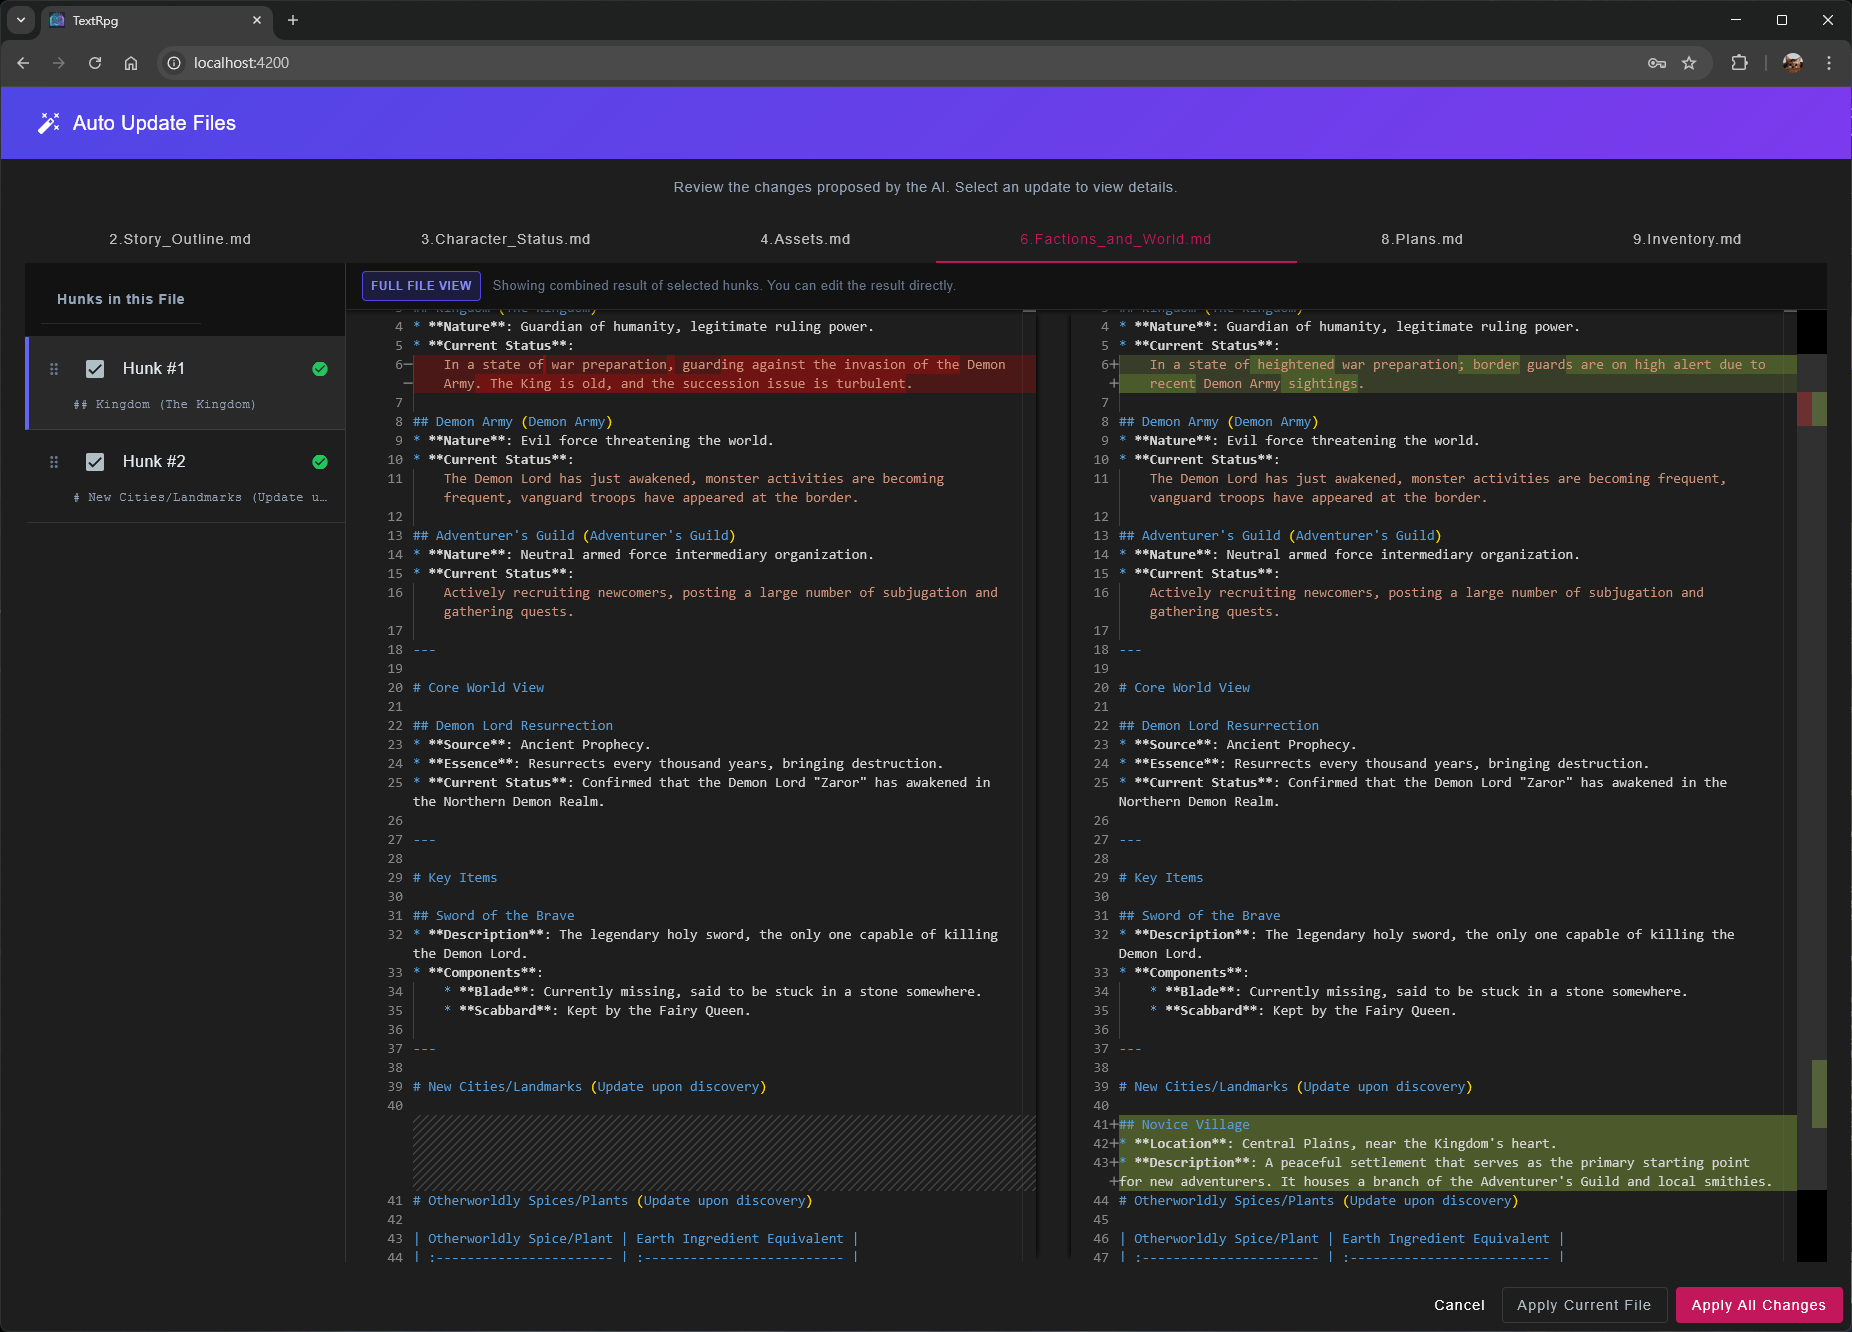
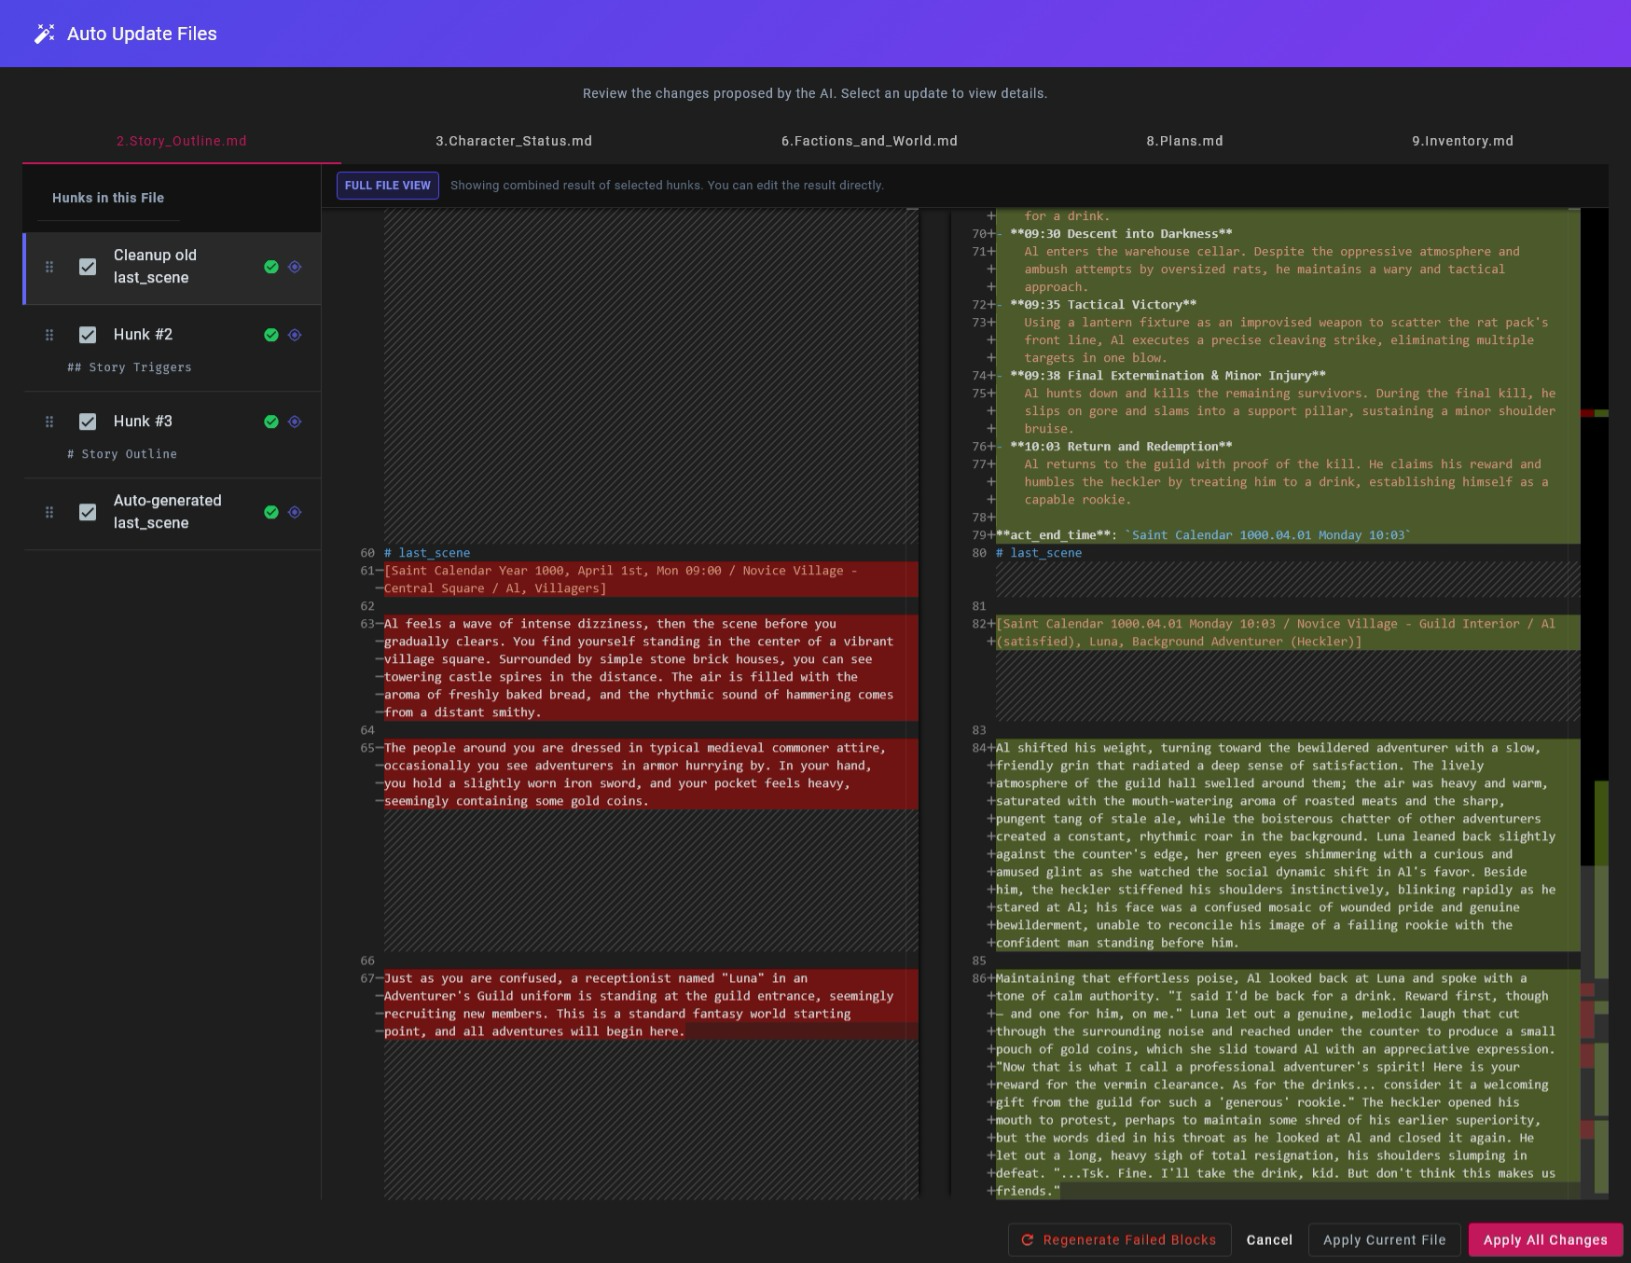
docs(readme): refresh feature demo screenshots (4 shots, accurate alt text)
Replace the 3-image demo block (2/3 sharing a duplicated alt) with 4 shots
covering both playback and Auto World Update flows: turn-with-analysis, quest
completion, hunk-by-hunk review, full-file diff. PNGs regenerated from
fresh captures.

diff --git a/README.md b/README.md
@@ -31,9 +31,10 @@ TextRPG is a **Local-First**, **Bring Your Own Key (BYOK)** web app built around
 
 ## Feature Demo
 
-![Main Game Interface](images/1.png)
-![Auto World Update - Diff Analysis](images/2.png)
-![Auto World Update - Diff Analysis](images/3.png)
+![Main Game Interface — Turn Playback with Analysis Trace](images/1.png)
+![Quest Completion with Multi-NPC Reactions and State Tracking](images/2.png)
+![Auto World Update — Hunk-by-Hunk Review](images/3.png)
+![Auto World Update — Full File Diff View](images/4.png)
 
 ---
 

diff --git a/README.zh-TW.md b/README.zh-TW.md
@@ -31,9 +31,10 @@ TextRPG 是一個**本地優先 (Local-First)**、**自帶金鑰 (Bring Your Own
 
 ## 功能展示
 
-![主要遊戲介面](images/1.png)
-![自動世界更新 - 差分分析](images/2.png)
-![自動世界更新 - 差分分析](images/3.png)
+![主要遊戲介面 — 回合播放與分析軌跡](images/1.png)
+![任務完成與多 NPC 反應、狀態追蹤](images/2.png)
+![自動世界更新 — 逐段差分審核](images/3.png)
+![自動世界更新 — 完整檔案差分檢視](images/4.png)
 
 ---
 